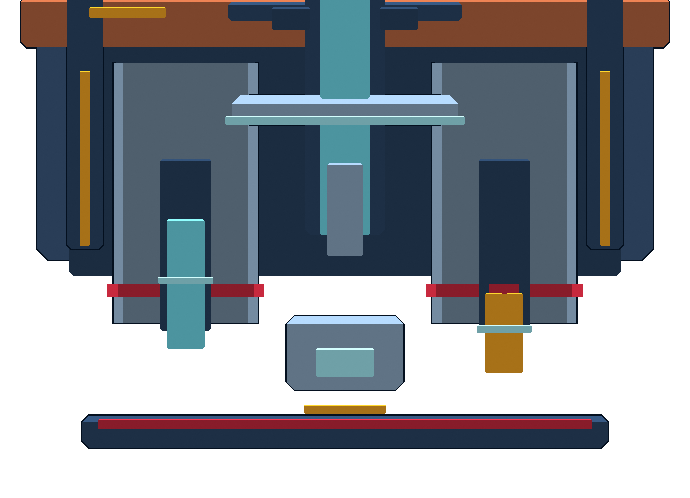
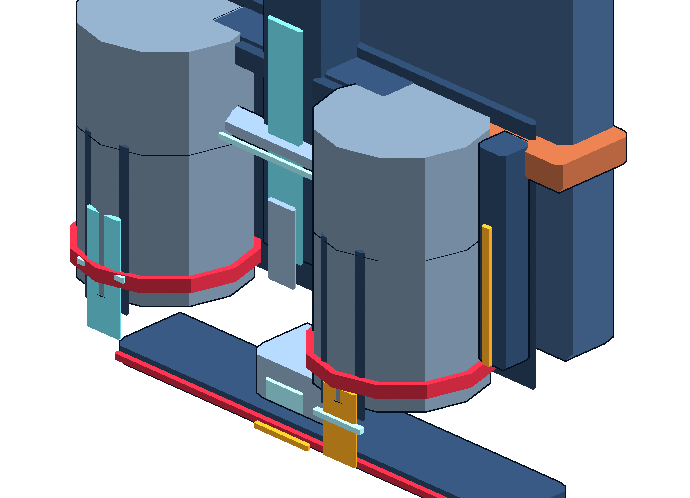
🚀🛰 ↝ [SSL-19 SSL-469]: Refine subsurface art and interaction markers

diff --git a/web/components/game/hub/HubSubsurfaceView.module.css b/web/components/game/hub/HubSubsurfaceView.module.css
@@ -178,14 +178,14 @@
   position: absolute;
   display: flex;
   color: var(--ln-cyan-bright);
-  font: 800 12px var(--ln-font-mono);
-  letter-spacing: .12em;
+  font: 800 10px var(--ln-font-mono);
+  letter-spacing: .08em;
   text-transform: uppercase;
 }
 
 .stageReadout {
-  top: 18px;
-  right: 20px;
+  top: 14px;
+  right: 16px;
   flex-direction: column;
   gap: 5px;
   align-items: flex-end;
@@ -193,44 +193,44 @@
 }
 
 .stageFooter {
-  right: 20px;
-  bottom: 16px;
-  left: 20px;
+  right: 16px;
+  bottom: 12px;
+  left: 16px;
   justify-content: space-between;
   color: var(--ln-text-muted);
-  font-size: 11px;
+  font-size: 9px;
 }
 
 .stageHotspots {
   position: absolute;
   right: 0;
-  bottom: 18%;
+  bottom: 22%;
   left: 0;
   display: flex;
   justify-content: space-between;
-  padding: 0 8%;
+  padding: 0 13%;
   pointer-events: none;
 }
 
 .stageHotspot {
   display: grid;
-  min-width: 150px;
-  padding: 9px 12px;
-  grid-template-columns: auto 1fr;
-  gap: 3px 8px;
-  border: 1px solid var(--ln-cyan-border);
-  border-radius: var(--ln-r-md);
+  width: 52px;
+  min-width: 52px;
+  height: 52px;
+  padding: 0;
+  place-items: center;
+  border: 0;
+  border-radius: 50%;
   color: var(--ln-text);
-  background: rgb(5 11 20 / 82%);
-  box-shadow: 0 8px 20px rgb(0 0 0 / 26%);
+  background: transparent;
+  box-shadow: 0 5px 16px rgb(0 0 0 / 32%);
   cursor: pointer;
   pointer-events: auto;
   text-align: left;
 }
 
 .stageHotspot:hover {
-  border-color: var(--ln-cyan);
-  background: rgb(10 28 42 / 92%);
+  background: rgb(10 28 42 / 30%);
 }
 
 .stageHotspotVault { transform: translateY(14px); }
@@ -238,30 +238,38 @@
 
 .stageHotspotIcon {
   display: grid;
-  width: 30px;
-  height: 30px;
-  grid-row: span 2;
+  width: 46px;
+  height: 46px;
   place-items: center;
   color: var(--ln-cyan-bright);
-  border: 1px solid var(--ln-cyan-border);
+  border: 2px solid var(--ln-cyan);
   border-radius: 50%;
+  background: rgb(5 11 20 / 84%);
 }
 
 .stageHotspotLabel {
-  align-self: end;
-  font: 800 13px var(--ln-font-display);
-  letter-spacing: .08em;
-  text-transform: uppercase;
+  position: absolute;
+  width: 1px;
+  height: 1px;
+  overflow: hidden;
+  clip: rect(0 0 0 0);
+  white-space: nowrap;
 }
 
 .stageHotspotState {
-  color: var(--ln-cyan);
-  font: 700 11px var(--ln-font-mono);
-  letter-spacing: .08em;
-  text-transform: uppercase;
+  position: absolute;
+  right: -3px;
+  bottom: 0;
+  width: 12px;
+  height: 12px;
+  overflow: hidden;
+  border: 2px solid #050b14;
+  border-radius: 50%;
+  background: var(--ln-cyan);
+  color: transparent;
 }
 
-.stageHotspotStateLocked { color: var(--ln-amber); }
+.stageHotspotStateLocked { background: var(--ln-amber); }
 
 /* Before excavation there is no deck, panel, or chamber. The only foreground
    element is the excavation action resting on the exposed bedrock. */

diff --git a/tools/blender/models/underground.py b/tools/blender/models/underground.py
@@ -41,54 +41,54 @@ def cone(name, radius, depth, location, color, key, radius2=0.0, verts=10, outli
 
 def _silo(x, name, fill_color, fill_height):
     """Chunky storage vessel with a visible material band and loading neck."""
-    cylinder(f"{name}_body", 0.68, 2.45, (x, -0.34, 1.55), STEEL, f"{name}_steel", verts=12)
-    cone(f"{name}_dome", 0.68, 0.40, (x, -0.34, 2.98), STEEL_DARK, f"{name}_dome", radius2=0.22, verts=12)
-    cylinder(f"{name}_collar", 0.74, 0.12, (x, -0.34, 1.80), CRIMSON, f"{name}_collar", verts=12, outline=0)
-    cylinder(f"{name}_neck", 0.18, 0.26, (x, -0.34, 3.26), WALL_LIT, f"{name}_neck", verts=8)
+    cylinder(f"{name}_body", 0.82, 2.55, (x, -0.78, 1.72), STEEL, f"{name}_steel", verts=12)
+    cone(f"{name}_dome", 0.82, 0.48, (x, -0.78, 3.24), STEEL_DARK, f"{name}_dome", radius2=0.24, verts=12)
+    cylinder(f"{name}_collar", 0.89, 0.14, (x, -0.78, 1.88), CRIMSON, f"{name}_collar", verts=12, outline=0)
+    cylinder(f"{name}_neck", 0.20, 0.30, (x, -0.78, 3.63), WALL_LIT, f"{name}_neck", verts=8)
     # Front-facing fill window. It is a solid inset panel, not a CSS meter.
-    box(f"{name}_window", (0.48, 0.045, 1.62), (x, -1.02, 1.48), INK, f"{name}_window", bevel=0.03, outline=0)
-    box(f"{name}_fill", (0.36, 0.055, fill_height), (x, -1.055, 0.70 + fill_height / 2), fill_color, f"{name}_fill", bevel=0.018, outline=0)
-    box(f"{name}_cap", (0.52, 0.07, 0.07), (x, -1.075, 0.70 + fill_height), CYAN_BRIGHT, f"{name}_cap", bevel=0.01, outline=0)
+    box(f"{name}_window", (0.56, 0.045, 1.72), (x, -1.53, 1.58), INK, f"{name}_window", bevel=0.03, outline=0)
+    box(f"{name}_fill", (0.42, 0.055, fill_height), (x, -1.565, 0.72 + fill_height / 2), fill_color, f"{name}_fill", bevel=0.018, outline=0)
+    box(f"{name}_cap", (0.60, 0.07, 0.07), (x, -1.585, 0.72 + fill_height), CYAN_BRIGHT, f"{name}_cap", bevel=0.01, outline=0)
 
 
 def subsurface_cutaway():
     # The frame is a compact cutaway card, but its interior is a single joined
     # industrial structure with no isolated decorative fragments.
-    box("cutaway_mass", (5.80, 0.70, 4.15), (0, 0.25, 2.15), WALL, "cutaway_wall", bevel=0.10)
-    box("cutaway_shadow", (5.20, 0.08, 3.45), (0, -0.17, 2.00), INK, "cutaway_shadow", bevel=0.04, outline=0)
+    box("cutaway_mass", (5.80, 0.70, 3.80), (0, 0.25, 2.02), WALL, "cutaway_wall", bevel=0.10)
+    box("cutaway_shadow", (5.20, 0.08, 2.72), (0, -0.17, 1.70), INK, "cutaway_shadow", bevel=0.04, outline=0)
 
     # Soil and surface continuation. The central opening is carried by the
     # dark shaft and rim, which makes the excavation legible at sprite size.
-    box("surface_soil", (6.10, 0.90, 0.48), (0, 0.12, 4.15), SOIL_LIT, "surface_soil", bevel=0.05)
-    box("surface_rim", (2.20, 0.98, 0.18), (0, -0.12, 4.40), STEEL_DARK, "surface_rim", bevel=0.03)
-    box("surface_opening", (1.38, 0.11, 0.22), (0, -0.67, 4.31), INK, "surface_opening", bevel=0.02, outline=0)
-    box("surface_marker", (0.72, 0.06, 0.10), (-2.05, -0.71, 4.43), AMBER, "surface_marker", bevel=0.01, outline=0)
+    box("surface_soil", (6.10, 0.90, 0.34), (0, 0.12, 3.88), SOIL_LIT, "surface_soil", bevel=0.05)
+    box("surface_rim", (2.20, 0.98, 0.18), (0, -0.12, 4.10), STEEL_DARK, "surface_rim", bevel=0.03)
+    box("surface_opening", (1.38, 0.11, 0.22), (0, -0.67, 4.01), INK, "surface_opening", bevel=0.02, outline=0)
+    box("surface_marker", (0.72, 0.06, 0.10), (-2.05, -0.71, 4.13), AMBER, "surface_marker", bevel=0.01, outline=0)
 
     # Central lift and transfer spine connect the surface to both tanks.
-    box("lift_shaft", (0.76, 0.62, 3.25), (0, -0.42, 2.38), STEEL_DARK, "lift_shaft", bevel=0.06)
-    box("lift_face", (0.48, 0.05, 2.62), (0, -0.76, 2.38), CYAN, "lift_face", bevel=0.025, outline=0)
-    box("lift_door", (0.34, 0.06, 0.88), (0, -0.80, 2.18), WALL_LIT, "lift_door", bevel=0.02, outline=0)
-    box("transfer_pipe", (3.80, 0.26, 0.28), (0, -0.70, 3.42), WALL_LIT, "transfer_pipe", bevel=0.08)
-    box("transfer_glow", (3.25, 0.04, 0.08), (0, -0.88, 3.42), CYAN_BRIGHT, "transfer_glow", bevel=0.01, outline=0)
+    box("lift_shaft", (0.72, 0.62, 2.98), (0, -0.42, 2.32), STEEL_DARK, "lift_shaft", bevel=0.06)
+    box("lift_face", (0.44, 0.05, 2.38), (0, -0.76, 2.32), CYAN, "lift_face", bevel=0.025, outline=0)
+    box("lift_door", (0.34, 0.06, 0.82), (0, -0.80, 2.08), WALL_LIT, "lift_door", bevel=0.02, outline=0)
+    box("transfer_pipe", (3.80, 0.26, 0.24), (0, -0.70, 3.32), WALL_LIT, "transfer_pipe", bevel=0.08)
+    box("transfer_glow", (3.25, 0.04, 0.07), (0, -0.88, 3.32), CYAN_BRIGHT, "transfer_glow", bevel=0.01, outline=0)
     for x in (-1.82, 1.82):
-        box("pipe_drop", (0.20, 0.24, 0.74), (x, -0.70, 3.02), WALL_LIT, "pipe_drop", bevel=0.04)
+        box("pipe_drop", (0.20, 0.24, 0.54), (x, -0.70, 3.08), WALL_LIT, "pipe_drop", bevel=0.04)
 
     _silo(-1.50, "left_silo", CYAN, 1.22)
     _silo(1.50, "right_silo", AMBER, 0.76)
 
     # One broad lower service deck gives the tanks and console a shared base.
-    box("service_deck", (4.95, 0.82, 0.30), (0, -0.03, 0.38), STEEL_DARK, "service_deck", bevel=0.06)
-    box("service_edge", (4.65, 0.06, 0.10), (0, -0.58, 0.55), CRIMSON, "service_edge", bevel=0.01, outline=0)
-    box("crafting_bay", (1.10, 0.72, 0.70), (0, -0.38, 0.92), WALL_LIT, "crafting_bay", bevel=0.08)
-    box("crafting_screen", (0.55, 0.04, 0.28), (0, -0.77, 1.04), CYAN_BRIGHT, "crafting_screen", bevel=0.02, outline=0)
-    box("crafting_glow", (0.78, 0.05, 0.08), (0, -0.80, 0.70), AMBER, "crafting_glow", bevel=0.01, outline=0)
+    box("service_deck", (4.95, 0.82, 0.26), (0, -0.03, 0.28), STEEL_DARK, "service_deck", bevel=0.06)
+    box("service_edge", (4.65, 0.06, 0.08), (0, -0.58, 0.43), CRIMSON, "service_edge", bevel=0.01, outline=0)
+    box("crafting_bay", (0.92, 0.72, 0.54), (0, -0.38, 0.76), WALL_LIT, "crafting_bay", bevel=0.08)
+    box("crafting_screen", (0.48, 0.04, 0.22), (0, -0.77, 0.84), CYAN_BRIGHT, "crafting_screen", bevel=0.02, outline=0)
+    box("crafting_glow", (0.68, 0.05, 0.07), (0, -0.80, 0.52), AMBER, "crafting_glow", bevel=0.01, outline=0)
 
     # Small chunky braces make the cutaway read as excavated architecture.
     for x in (-2.45, 2.45):
-        box("wall_brace", (0.34, 0.36, 2.65), (x, -0.43, 2.25), STEEL_DARK, "wall_brace", bevel=0.04)
-        box("wall_light", (0.10, 0.05, 1.65), (x, -0.65, 2.28), AMBER, "wall_light", bevel=0.01, outline=0)
+        box("wall_brace", (0.34, 0.36, 2.20), (x, -0.43, 2.05), STEEL_DARK, "wall_brace", bevel=0.04)
+        box("wall_light", (0.10, 0.05, 1.40), (x, -0.65, 2.08), AMBER, "wall_light", bevel=0.01, outline=0)
 
-    return dict(layout=(230, 166), ortho=6.5, mode="flat", target=(0, 0, 2.25))
+    return dict(layout=(230, 166), ortho=6.2, mode="iso", target=(0, 0, 2.15))
 
 
 BUILDS = {
